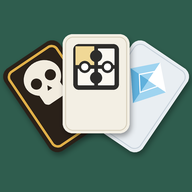
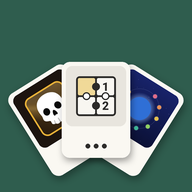
ゲームコレクション: アイコンを、各ゲームの絵を札にした手札の扇に変更
Claude-Session: https://claude.ai/code/session_013kTsaeDHdJjMzQp8KtMTm5

diff --git a/sw.js b/sw.js
@@ -1,6 +1,6 @@
 // ゲームコレクション (game list): network first, cache as fallback (offline). Only the list's own files —
 // each game (/kropki/, /dungeon-chain/ …) has its own service worker.
-const C = 'asobiba-v12', OWN = ['/', '/index.html', '/manifest.json', '/icon-192.png', '/icon-512.png', '/apple-touch-icon.png', '/favicon.png', '/icon-maskable-512.png'];
+const C = 'asobiba-v13', OWN = ['/', '/index.html', '/manifest.json', '/icon-192.png', '/icon-512.png', '/apple-touch-icon.png', '/favicon.png', '/icon-maskable-512.png'];
 self.addEventListener('install', e => { e.waitUntil(caches.open(C).then(c => c.addAll(OWN)).then(() => self.skipWaiting())); });
 self.addEventListener('activate', e => { e.waitUntil(caches.keys().then(ks => Promise.all(ks.filter(k => k.startsWith('asobiba-') && k !== C).map(k => caches.delete(k)))).then(() => self.clients.claim())); });
 self.addEventListener('fetch', e => {

diff --git a/index.html b/index.html
@@ -137,7 +137,7 @@ button:active{transform:scale(.97)}
 
 <script>
 (function(){
-var VERSION = '0.4.0';
+var VERSION = '0.4.1';
 var NAME = 'ゲームコレクション';   // the list's name (title, install screen)
 /* ---- the games ---- */
 var GAMES = [
